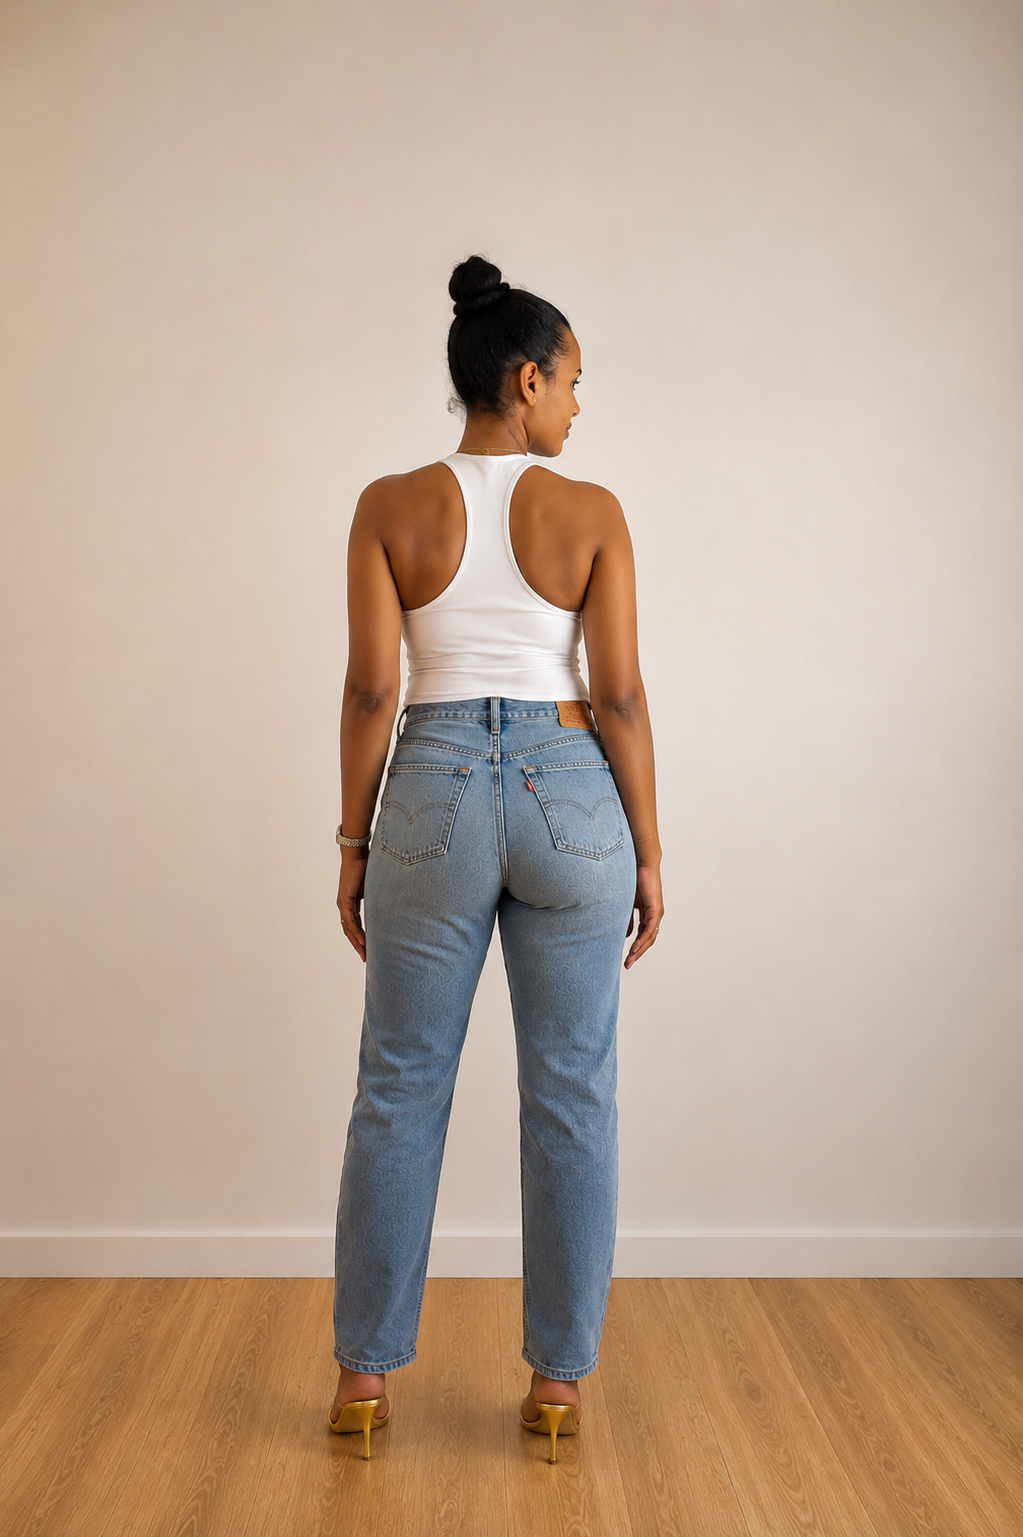
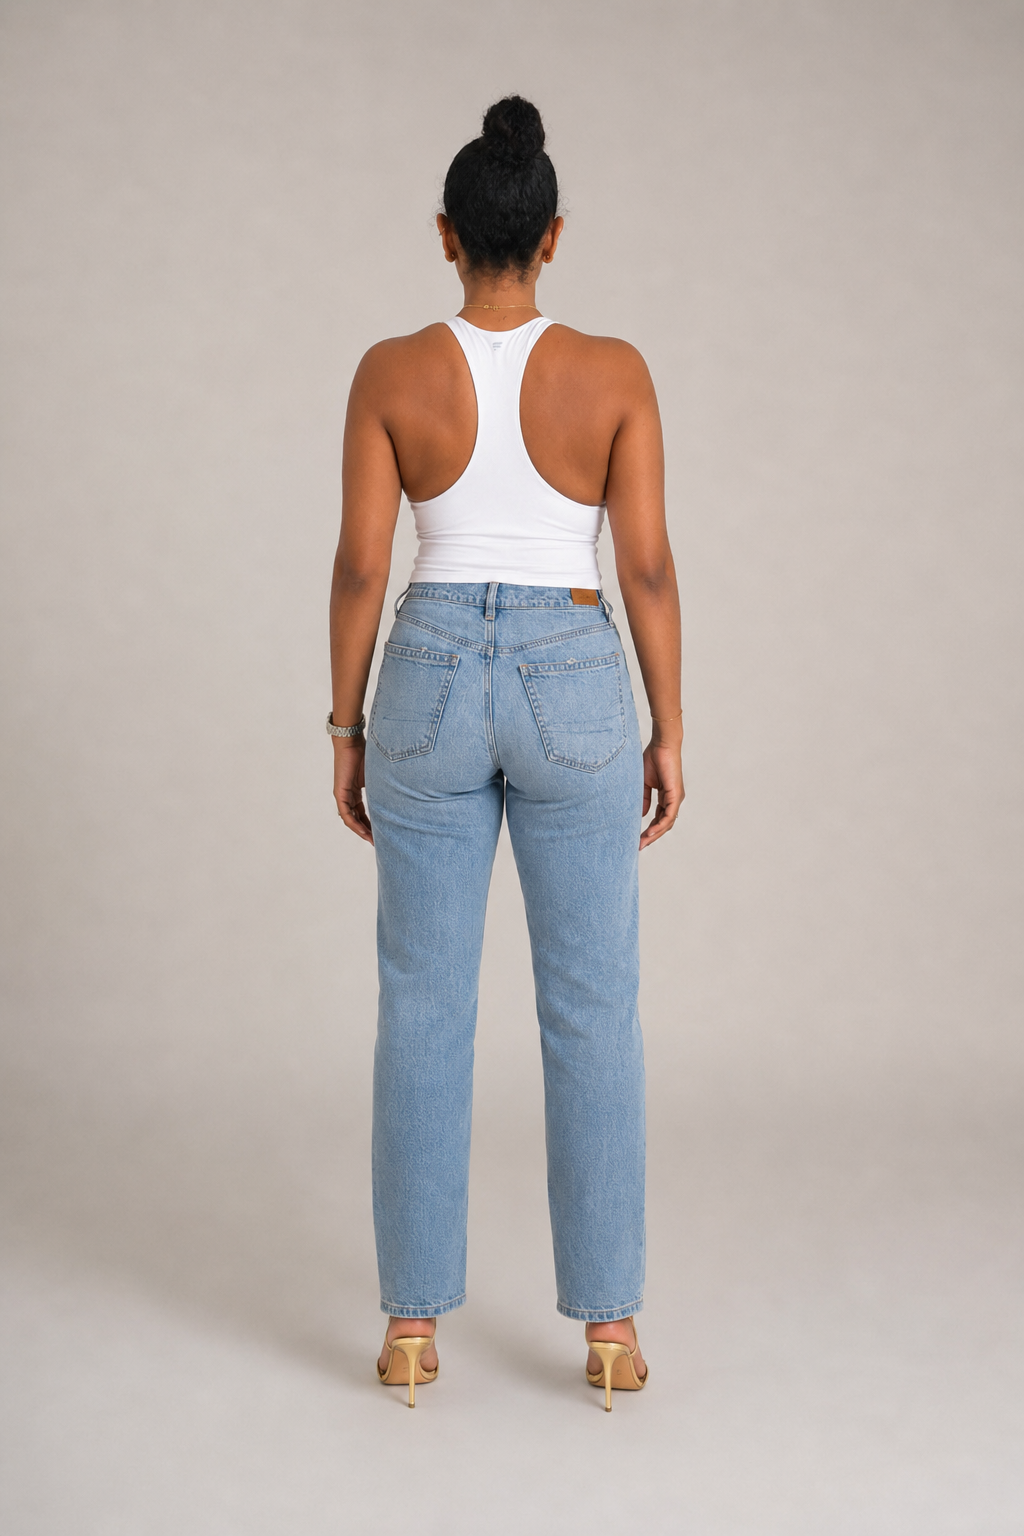
Add more pictures

diff --git a/index.html b/index.html
@@ -34,7 +34,7 @@
   <div class="scroll-progress" aria-hidden="true"><span></span></div>
 
   <header class="site-header">
-    <a class="brand" href="#top" aria-label="Elshadai Tegegn home">ET<span>.</span></a>
+    <a class="brand" href="#top" aria-label="Elshadai Tegegn home">ELSH<span>.</span></a>
 
     <button class="menu-toggle" type="button" aria-label="Open menu" aria-expanded="false">
       <span></span><span></span>
@@ -117,7 +117,7 @@
 
         <article class="project project--tall">
           <a href="#runway" class="project__image image-reveal">
-            <img src="assets/images/amazon-sustainability-01.JPG" alt="Amazon Sustainability Fashion Show" loading="lazy" />
+            <img src="assets/images/amazon-sustainability-01.jpg" alt="Amazon Sustainability Fashion Show" loading="lazy" />
             <div class="project__hover">
               <span>View story</span><span>↗</span>
             </div>
@@ -169,8 +169,8 @@
     <section class="runway" id="runway">
       <div class="runway__sticky">
         <div class="runway__intro">
-          <p class="eyebrow">RUNWAY ARCHIVE</p>
-          <h2>Walks that<br>hold the room.</h2>
+          <p class="eyebrow">WORK ARCHIVE</p>
+          <h2>Moments that<br>hold the room.</h2>
           <p>Scroll to move through the runway timeline.</p>
         </div>
 
@@ -188,23 +188,23 @@
 
           <article class="runway-card">
             <div class="runway-card__image">
-              <img src="assets/images/amazon-sustainability-02.JPG" alt="Amazon Sustainability Fashion Show runway look" loading="lazy" />
+              <img src="assets/images/amazon-sustainability-02.jpg" alt="Amazon Sustainability Fashion Show runway look" loading="lazy" />
             </div>
             <div class="runway-card__copy">
               <span>JUN 2026</span>
               <h3>Amazon Sustainability</h3>
-              <p>Fashion show / editorial</p>
+              <p>Editorial look</p>
             </div>
           </article>
 
           <article class="runway-card">
             <div class="runway-card__image">
-              <img src="assets/images/amazon-sustainability-04.JPG" alt="Amazon Sustainability Fashion Show runway look" loading="lazy" />
+              <img src="assets/images/amazon-sustainability-04.jpg" alt="Amazon Sustainability Fashion Show runway look" loading="lazy" />
             </div>
             <div class="runway-card__copy">
               <span>JUN 2026</span>
               <h3>Amazon Sustainability</h3>
-              <p>Fashion show / editorial</p>
+              <p>Behind the runway</p>
             </div>
           </article>
 
@@ -215,7 +215,7 @@
             <div class="runway-card__copy">
               <span>SEP 2025</span>
               <h3>ECMAA Ethiopian New Year</h3>
-              <p>Cultural runway</p>
+              <p>Ethiopian New Year runway</p>
             </div>
           </article>
 
@@ -226,18 +226,27 @@
             <div class="runway-card__copy">
               <span>SEP 2025</span>
               <h3>ECMAA Ethiopian New Year</h3>
-              <p>Cultural runway</p>
+              <p>Cultural fashion look</p>
             </div>
           </article>
 
           <article class="runway-card">
             <div class="runway-card__image">
-              <img src="assets/images/lifestyle-2.JPG" alt="lifestyle look" loading="lazy" />
+              <img src="assets/images/lifestyle-1.jpg" alt="lifestyle look" loading="lazy" />
+            </div>
+            <div class="runway-card__copy">
+              <span>MAY 2026</span>
+              <h3>Lifestyle</h3>
+            </div>
+          </article>
+
+          <article class="runway-card">
+            <div class="runway-card__image">
+              <img src="assets/images/lifestyle-2.jpg" alt="lifestyle look" loading="lazy" />
             </div>
             <div class="runway-card__copy">
               <span>JULY 2026</span>
-              <h3>Day to Day looks</h3>
-              <p>Lifestyle</p>
+              <h3>Lifestyle</h3>
             </div>
           </article>
 
@@ -265,11 +274,11 @@
         </figure>
         <figure class="digital-card image-reveal digital-card--lower">
           <img src="assets/images/digital-profile-right.jpg" alt="Profile digital" loading="lazy" />
-          <figcaption>Profile</figcaption>
+          <figcaption>Right profile</figcaption>
         </figure>
         <figure class="digital-card image-reveal digital-card--lower">
           <img src="assets/images/digital-profile-left.jpg" alt="Profile digital" loading="lazy" />
-          <figcaption>Profile</figcaption>
+          <figcaption>Left profile</figcaption>
         </figure>
       </div>
     </section>
